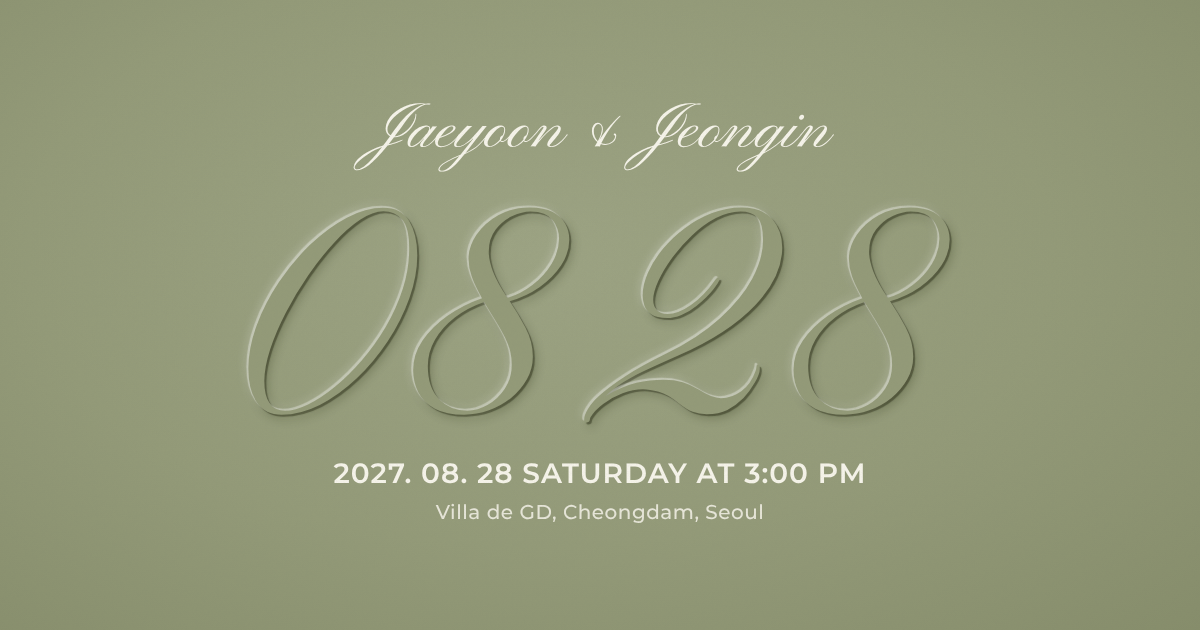
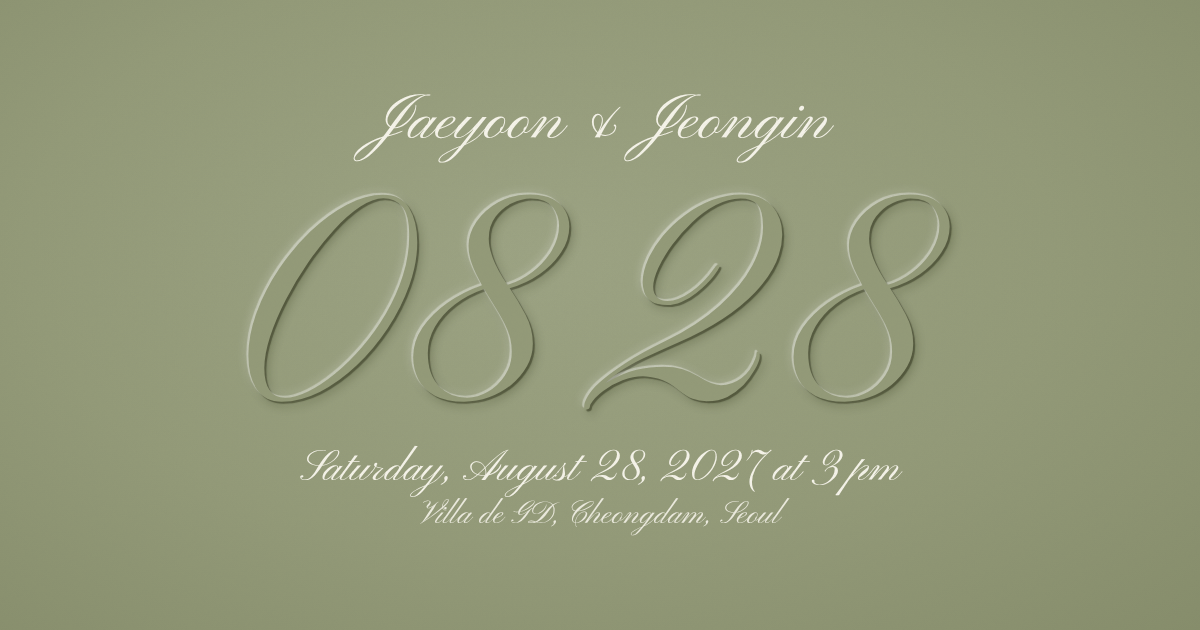
썸네일 날짜·장소도 필기체
Claude-Session: https://claude.ai/code/session_014x3DoSBryz5Xt6sjpw67QT

diff --git a/index.html b/index.html
@@ -8,7 +8,7 @@
 <meta property="og:type" content="website">
 <meta property="og:title" content="방재윤 ♥ 김정인 결혼합니다">
 <meta property="og:description" content="2027년 8월 28일 토요일 오후 3시, 빌라드지디 청담">
-<meta property="og:image" content="https://jaeyun-jeongin.github.io/og.png?v=7">
+<meta property="og:image" content="https://jaeyun-jeongin.github.io/og.png?v=8">
 <meta property="og:image:width" content="1200">
 <meta property="og:image:height" content="630">
 <meta property="og:url" content="https://jaeyun-jeongin.github.io/">
